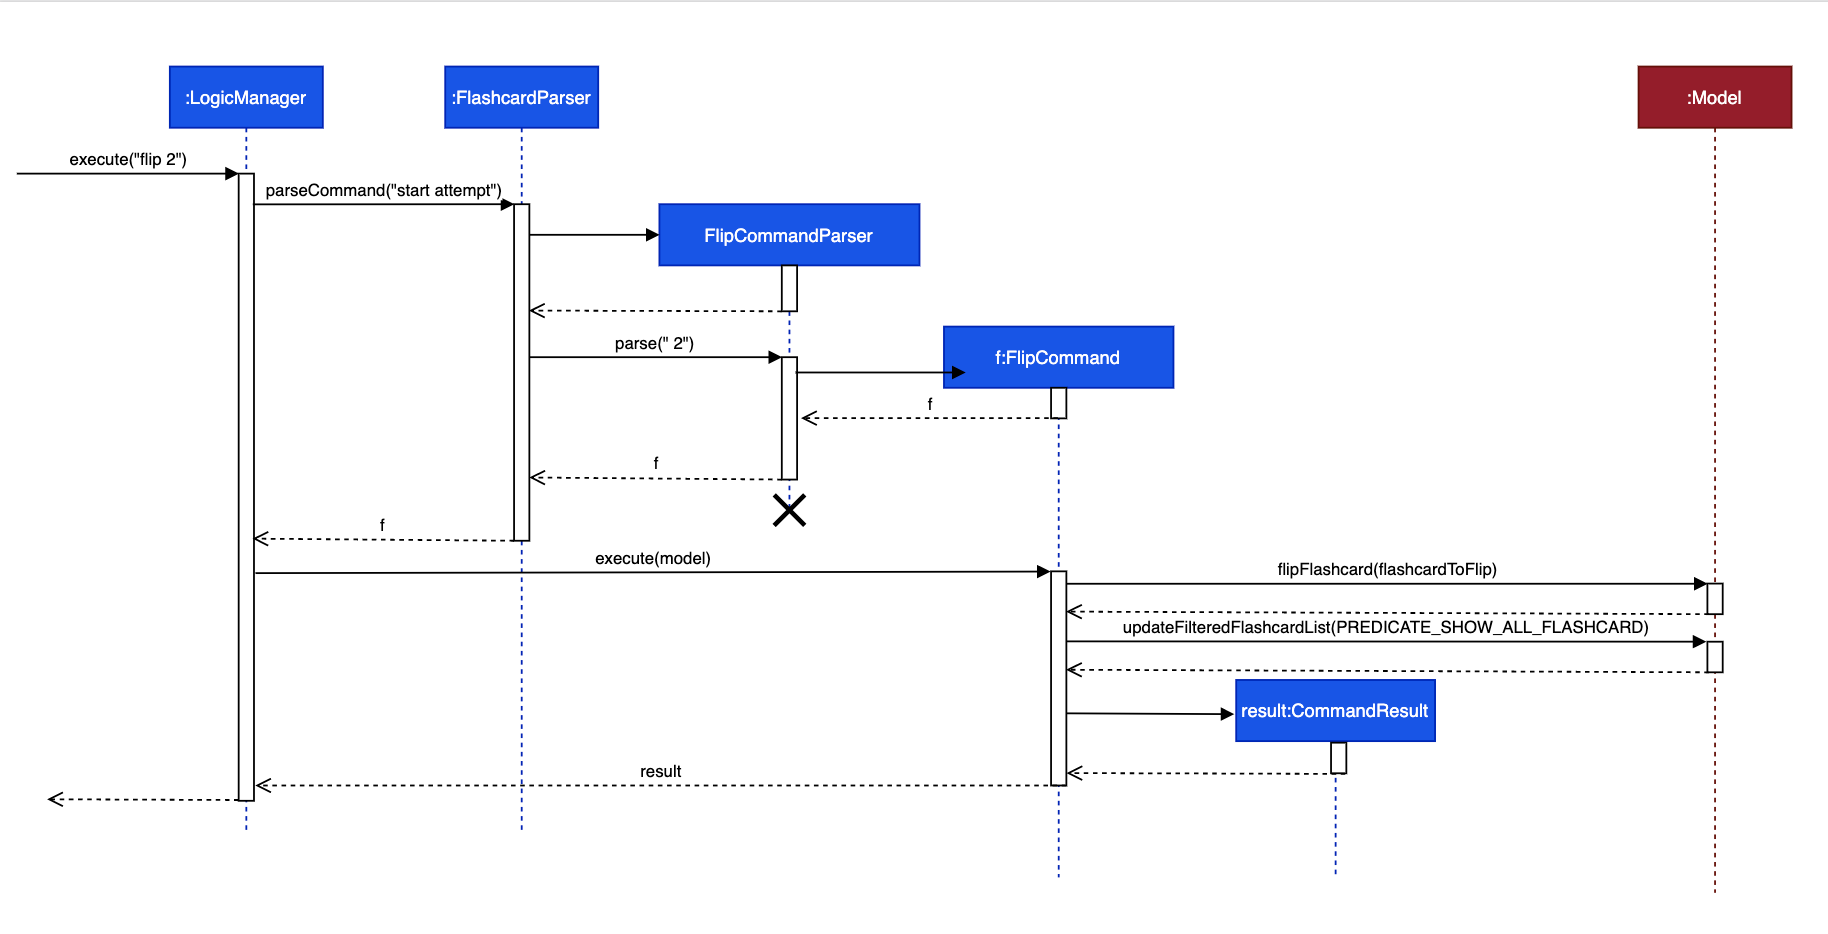
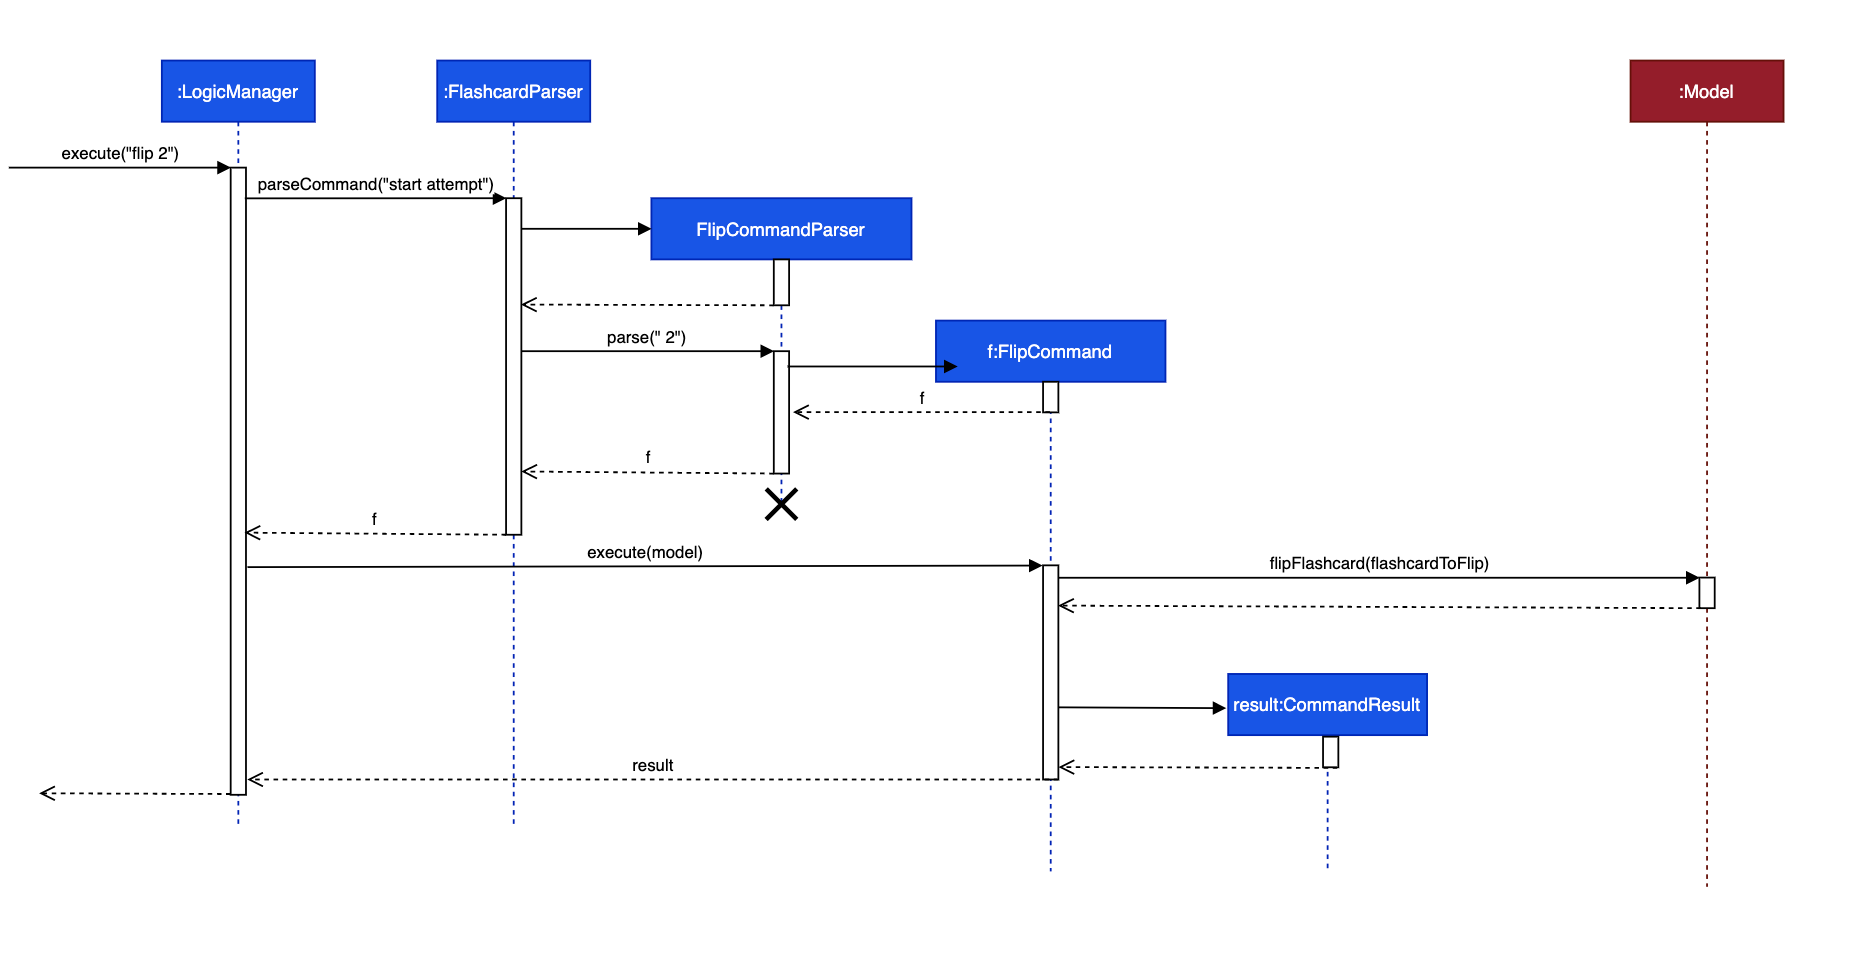
fix bug under FlipCommand to work with find

diff --git a/src/test/java/seedu/address/logic/commands/FlipCommandTest.java b/src/test/java/seedu/address/logic/commands/FlipCommandTest.java
@@ -48,21 +48,6 @@ public class FlipCommandTest {
     }
 
     @Test
-    public void execute_validIndexFilteredList_success() {
-        showFlashcardAtIndex(model, INDEX_FIRST_FLASHCARD);
-
-        Flashcard flashcardToFlip = model.getFilteredFlashcardList().get(INDEX_FIRST_FLASHCARD.getZeroBased());
-        FlipCommand flipCommand = new FlipCommand(INDEX_FIRST_FLASHCARD);
-
-        String expectedMessage = flipCommand.generateSuccessMessage(flashcardToFlip);
-
-        Model expectedModel = new ModelManager(model.getFlashcardBook(), new UserPrefs());
-        expectedModel.flipFlashcard(flashcardToFlip);
-
-        assertCommandSuccess(flipCommand, model, expectedMessage, expectedModel);
-    }
-
-    @Test
     public void execute_invalidIndexFilteredList_throwsCommandException() {
         showFlashcardAtIndex(model, INDEX_FIRST_FLASHCARD);
 

diff --git a/src/main/java/seedu/address/logic/commands/FlipCommand.java b/src/main/java/seedu/address/logic/commands/FlipCommand.java
@@ -2,7 +2,6 @@ package seedu.address.logic.commands;
 
 import static java.util.Objects.requireNonNull;
 import static seedu.address.commons.util.CollectionUtil.requireAllNonNull;
-import static seedu.address.model.Model.PREDICATE_SHOW_ALL_FLASHCARD;
 
 import java.util.List;
 
@@ -50,7 +49,6 @@ public class FlipCommand extends Command {
         }
         Flashcard flashcardToFlip = lastShownList.get(index.getZeroBased());
         model.flipFlashcard(flashcardToFlip);
-        model.updateFilteredFlashcardList(PREDICATE_SHOW_ALL_FLASHCARD);
         return new CommandResult(this.generateSuccessMessage(flashcardToFlip));
     }
 
